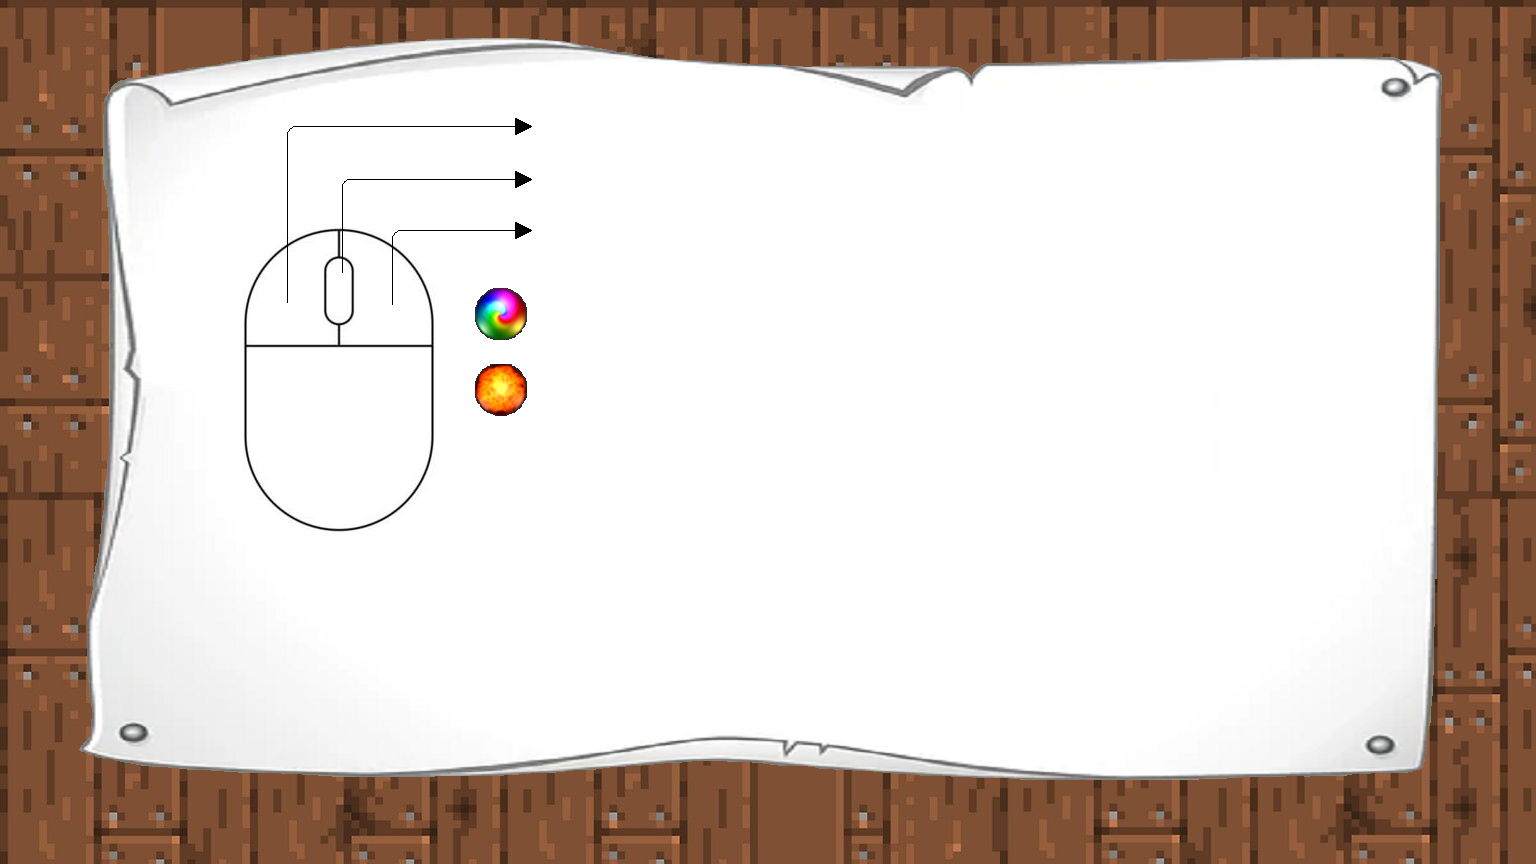
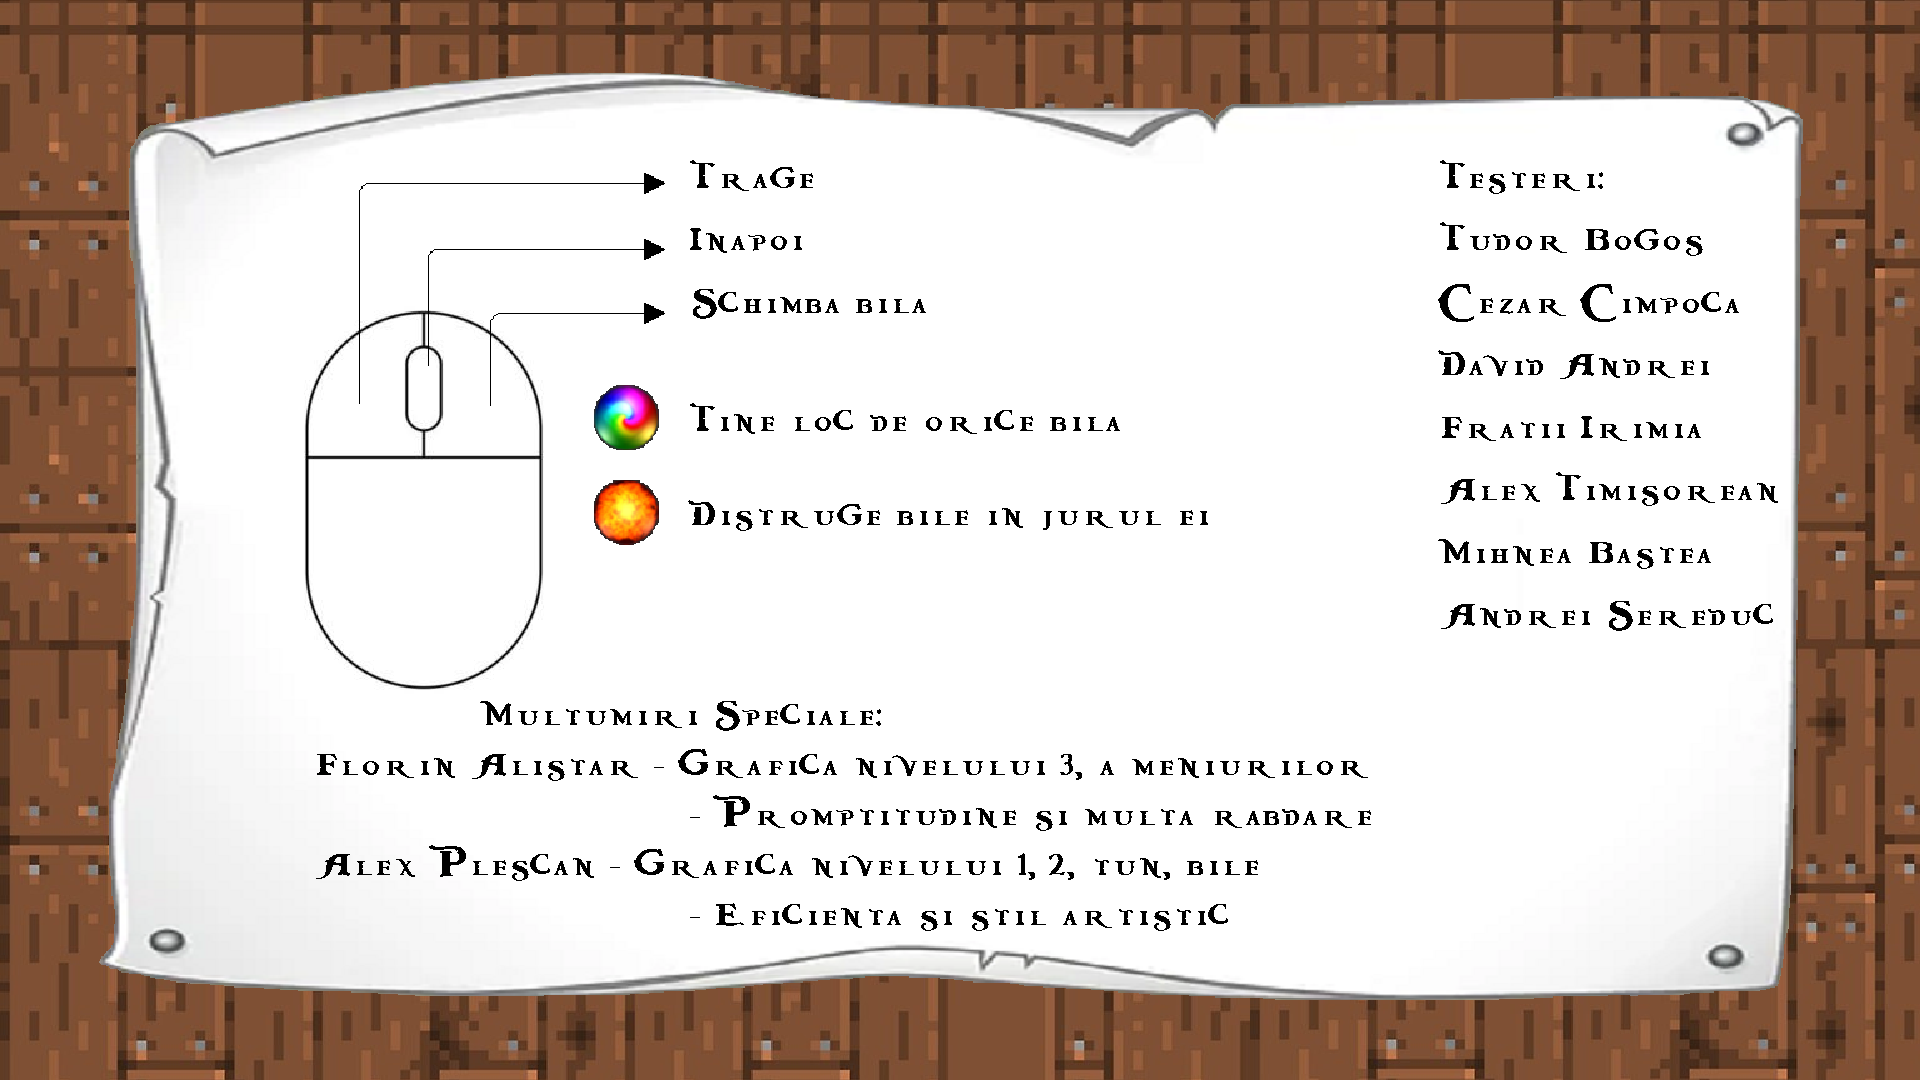
meniu frumos de credite si ajutor

diff --git a/src/Application.java b/src/Application.java
@@ -104,34 +104,42 @@ public class Application implements Runnable {
                     //este ori sus de tot, ori jos de tot
                     scena = scenaViitoare;
                     if(LoadingScreen.bottomY() <= 0){//daca este complet ridicat
-                        if(scena == 1){//este in nivel
-                            scenaViitoare = Nivel.Actualizare();
-                            Nivel.paintImmediately(0,0,screenWidth,screenHeight);
-                        }else if(scena == 0){//este in meniu
-                            //Nivel.firstPaint = true;
-                            scenaViitoare = meniu.UpdateMeniu();
-                            meniu.paintImmediately(0,0,screenWidth,screenHeight);
+                        switch(scena){
+                            case 0 -> {//este in meniu
+                                scenaViitoare = meniu.UpdateMeniu();
+                                meniu.paintImmediately(0,0,screenWidth,screenHeight);
+                            }
+                            case 1 -> {//este in nivel
+                                scenaViitoare = Nivel.Actualizare();
+                                Nivel.paintImmediately(0,0,screenWidth,screenHeight);
+                            }
+                            case 2 -> {//este in ajutor, nu intra in cazul asta
+                                LoadingScreen.setTex(ResourceManager.get().getLoadscreen());
+                                scenaViitoare = 0;
+                            }
                         }
                     }
                     else{//daca este complet coborat
-                        if(scena == 1){//este in nivel
+                        if(scena != 2){//este in meniu/ nivel
                             LoadingScreen.moveOut = true;
-                            //StartLevel(3,4);
-                        }else if(scena == 0){//este in meniu
-                            Nivel.firstPaint = true;
-                            LoadingScreen.moveOut = true;
+                        }else{//este in ajutor/credite
+                            if(MouseStatus.middleMouse){
+                                LoadingScreen.moveOut = true;
+                            }
                         }
                     }
-
                 }
                 else{
-                    if(scena == 0){//este in meniu
-                        meniu.paintImmediately(0,LoadingScreen.bottomY(),screenWidth,screenHeight- LoadingScreen.bottomY());
-                        panouloading.paintImmediately(0,0,screenWidth,LoadingScreen.bottomY());
-                    }else if(scena == 1){//este in nivel
-                        Nivel.paintImmediately(0,LoadingScreen.bottomY(),screenWidth,screenHeight- LoadingScreen.bottomY());
-                        Nivel.firstPaint = true;
-                        panouloading.paintImmediately(0,0,screenWidth,LoadingScreen.bottomY());
+                    switch(scena){
+                        case 0, 2 ->{
+                            meniu.paintImmediately(0,LoadingScreen.bottomY(),screenWidth,screenHeight- LoadingScreen.bottomY());
+                            panouloading.paintImmediately(0,0,screenWidth,LoadingScreen.bottomY());
+                        }
+                        case 1 -> {
+                            Nivel.paintImmediately(0,LoadingScreen.bottomY(),screenWidth,screenHeight- LoadingScreen.bottomY());
+                            Nivel.firstPaint = true;
+                            panouloading.paintImmediately(0,0,screenWidth,LoadingScreen.bottomY());
+                        }
                     }
                 }
                 timp_trecut = (System.nanoTime()- timp_incepere)/1000000;

diff --git a/src/MeniuSelectii.java b/src/MeniuSelectii.java
@@ -4,7 +4,6 @@ enum StariMeniu{
     start,
     SelectiiNivele,
     SelectiiDificultate,
-    Credite
 }
 public class MeniuSelectii extends Textura{
     public Buton buton1, buton2, buton3;
@@ -18,7 +17,6 @@ public class MeniuSelectii extends Textura{
         buton2.textButon = "Credite";
         buton3 = new Buton((int) GetCoordX()-GetMarimeTexX()/2,(int) (GetCoordY()+GetMarimeTexY()*0.25),GetMarimeTexX(),100);
         buton3.textButon = "Iesire";
-
     }
     public int ApasaButonSus(){
         switch(stareMeniu){
@@ -37,18 +35,16 @@ public class MeniuSelectii extends Textura{
                 LoadingScreen.moveIn = true;
                 return 1;
             }
-            case Credite -> {
-                return 0;
-            }
         }
         System.out.println("Stare necunoscuta pe buton sus !");
         return -1;
     }
     public int ApasaButonMijloc(){
         switch(stareMeniu){
-            case start -> {
-                IncarcaStare(StariMeniu.Credite);
-                return 0;
+            case start -> {//intrare credite
+                LoadingScreen.setTex(ResourceManager.get().getMeniu("Ajutor"));
+                LoadingScreen.moveIn = true;
+                return 2;
             }
             case SelectiiNivele -> {
                 IncarcaStare(StariMeniu.SelectiiDificultate);
@@ -60,9 +56,6 @@ public class MeniuSelectii extends Textura{
                 Application.StartLevel(nivelSelectat,5);
                 LoadingScreen.moveIn = true;
                 return 1;
-            }
-            case Credite -> {
-                return 0;
             }
         }
         System.out.println("Stare necunoscuta pe buton mijloc !");
@@ -85,10 +78,6 @@ public class MeniuSelectii extends Textura{
                 Application.StartLevel(nivelSelectat,6);
                 LoadingScreen.moveIn = true;
                 return 1;
-            }
-            case Credite -> {
-                IncarcaStare(StariMeniu.start);
-                return 0;
             }
         }
         System.out.println("Stare necunoscuta pe buton jos !");
@@ -120,12 +109,6 @@ public class MeniuSelectii extends Textura{
                 buton1.textButon = "Usor";
                 buton2.textButon = "Mediu";
                 buton3.textButon = "Greu";
-            }
-            case Credite -> {
-                stareMeniu = StariMeniu.Credite;
-                buton1.textButon = "Alex Plescan";
-                buton2.textButon = "Florin Alistar";
-                buton3.textButon = "Inapoi";
             }
         }
     }

diff --git a/src/LoadingScreen.java b/src/LoadingScreen.java
@@ -37,13 +37,37 @@ public class LoadingScreen extends JPanel {
     }
     public void paintComponent(Graphics g) {
         g.setColor(Color.black);
-        //g.fillRect(0,0,1920,1080);
+        g.setFont(ResourceManager.get().font.deriveFont(25f));
         FundalLoading.paintComponent(g);
+        /*g.drawString("Trage",550,  FundalLoading.CenterY()+130);
+        g.drawString("Inapoi",550, FundalLoading.CenterY()+180);
+        g.drawString("Schimba bila",550, FundalLoading.CenterY()+230);
+        g.drawString("Tine loc de orice bila",550, FundalLoading.CenterY()+325);
+        g.drawString("Distruge bile in jurul ei",550, FundalLoading.CenterY()+400);
+        //testeri
+        g.drawString("Testeri:",1150,FundalLoading.CenterY()+130);
+        g.drawString("Tudor Bogos",1150,FundalLoading.CenterY()+180);
+        g.drawString("Cezar Cimpoca",1150,FundalLoading.CenterY()+230);
+        g.drawString("David Andrei",1150,FundalLoading.CenterY()+280);
+        g.drawString("Fratii Irimia",1150,FundalLoading.CenterY()+330);
+        g.drawString("Alex Timisorean",1150,FundalLoading.CenterY()+380);
+        g.drawString("Mihnea Bastea",1150,FundalLoading.CenterY()+430);
+        g.drawString("Andrei Sereduc",1150,FundalLoading.CenterY()+480);
+        //credite
+        g.drawString("Multumiri Speciale:",Application.getScreenWidth()/4,FundalLoading.CenterY()+560);
+        g.drawString("Florin Alistar - Grafica nivelului 3, a meniurilor",250,FundalLoading.CenterY()+600);
+        g.drawString("- Promptitudine si multa rabdare",550,FundalLoading.CenterY()+640);
+        g.drawString("Alex Plescan - Grafica nivelului 1, 2, tun, bile",250,FundalLoading.CenterY()+680);
+        g.drawString("- Eficienta si stil artistic",550,FundalLoading.CenterY()+720);
+*/
     }
     public static boolean isFinished(){
         return !moveIn && !moveOut;
     }
     public static int bottomY(){
-        return (int) (FundalLoading.GetMarimeTexY() + FundalLoading.CenterY());
+        return (FundalLoading.GetMarimeTexY() + FundalLoading.CenterY());
+    }
+    public static void setTex(Textura tex){
+        FundalLoading.SetTexRaw(tex.imagineRaw);
     }
 }

diff --git a/src/ResourceManager.java b/src/ResourceManager.java
@@ -123,7 +123,7 @@ public class ResourceManager {
             tex = ImageIO.read(new File(("src/resources/SelectiiMeniu.png")));
             selectiiMeniu = new Textura(tex,0,0,0).resize(500,500);
             tex = ImageIO.read(new File(("src/resources/EcranAjutor.png")));
-            ajutorMeniu = new Textura(tex,0,0,0)/*.resize(1536,864)*/;
+            ajutorMeniu = new Textura(tex,0,0,0).resize(1536,864);
             //tun
             tex = ImageIO.read(new File(("src/resources/Cannon_no_shade.png")));
             tunSus = new Textura(tex,0,0,0);

diff --git a/src/Level.java b/src/Level.java
@@ -23,6 +23,7 @@ public abstract class Level extends JPanel {
     private int cooldownSwap = 0;
 
     public Level(int Width, int Height, int dificultate) {
+        firstPaint = true;
         this.setLayout(null);
         this.dificultate = dificultate;
         pozitiiBile = new LinkedList<>();
